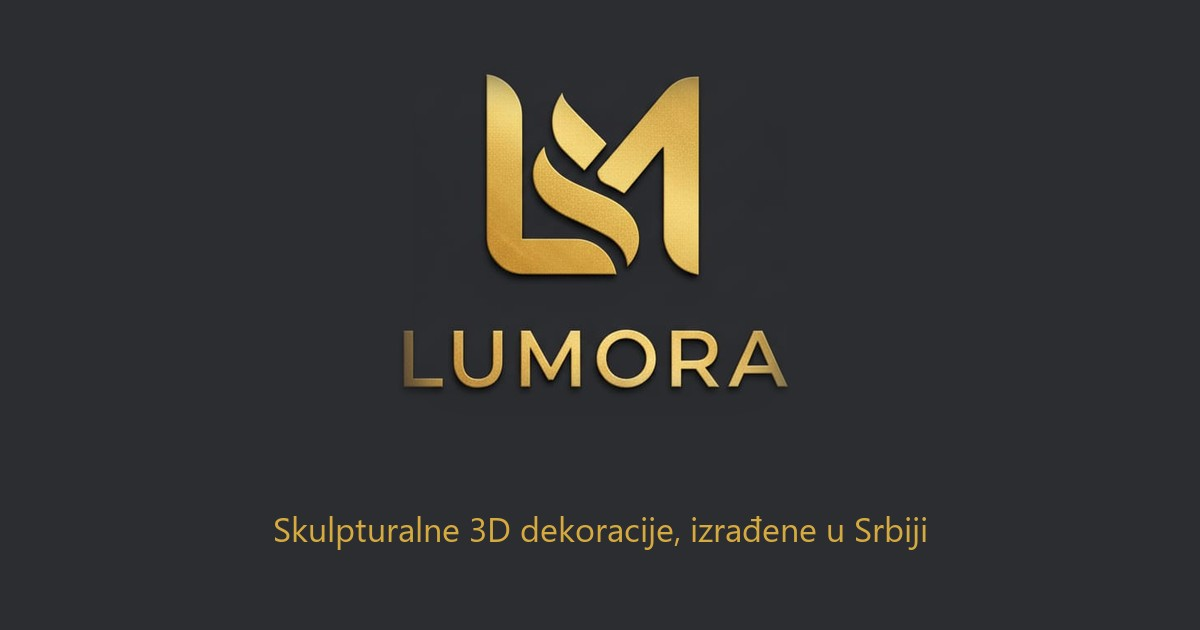
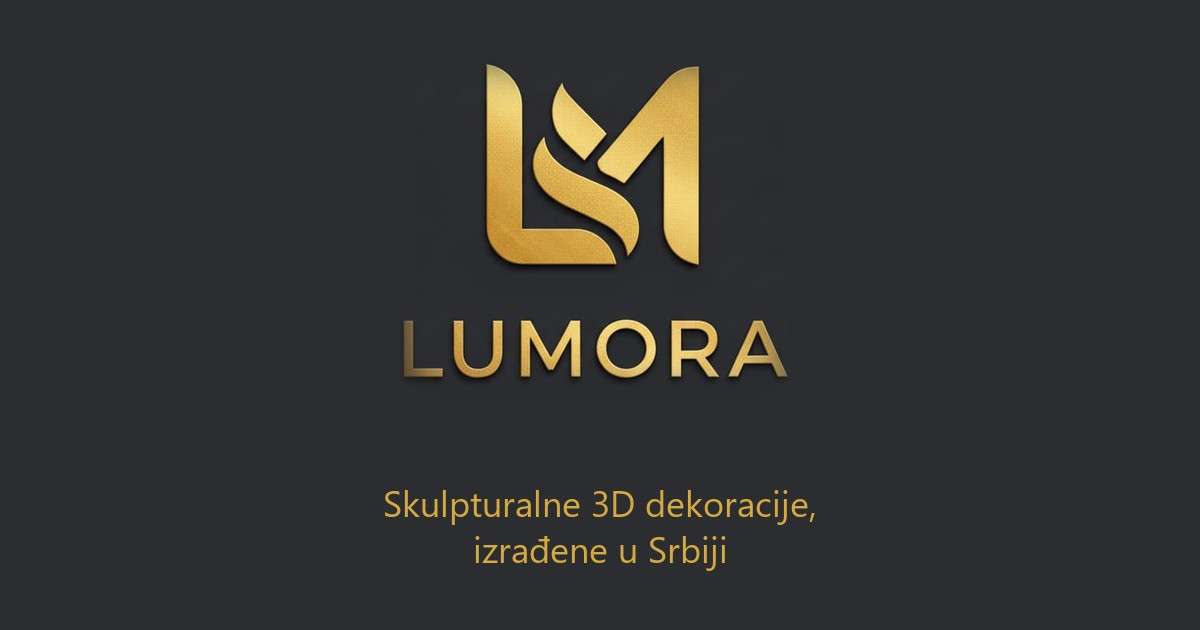
OG slika: slogan u dva reda, sve u sredini (da ga Instagram ne seče)

diff --git a/brand/make-og.py b/brand/make-og.py
@@ -19,7 +19,7 @@ logo = logo.resize((lw, lh), Image.LANCZOS)
 mask = Image.new("L", logo.size, 0)
 ImageDraw.Draw(mask).rectangle([36, 36, logo.width - 36, logo.height - 36], fill=255)
 mask = mask.filter(ImageFilter.GaussianBlur(24))
-canvas.paste(logo, ((W - lw) // 2, 30), mask)
+canvas.paste(logo, ((W - lw) // 2, 20), mask)
 
 # slogan ispod loga, zlatnom bojom iz logoa
 gold = (214, 170, 62)
@@ -27,13 +27,14 @@ d = ImageDraw.Draw(canvas)
 font = None
 for f in (r"C:\Windows\Fonts\segoeui.ttf", r"C:\Windows\Fonts\arial.ttf"):
     try:
-        font = ImageFont.truetype(f, 34)
+        font = ImageFont.truetype(f, 36)
         break
     except OSError:
         pass
-text = "Skulpturalne 3D dekoracije, izrađene u Srbiji"
-tw = d.textlength(text, font=font)
-d.text(((W - tw) / 2, 505), text, font=font, fill=gold)
+# Instagram i drugi čet prikazuju sredinu slike (skoro kvadrat), pa sve mora da stane u sredinu: slogan u dva reda
+for i, line in enumerate(("Skulpturalne 3D dekoracije,", "izrađene u Srbiji")):
+    tw = d.textlength(line, font=font)
+    d.text(((W - tw) / 2, 478 + i * 46), line, font=font, fill=gold)
 
 out = root / "public" / "og-default.jpg"
 canvas.save(out, "JPEG", quality=90, optimize=True)
